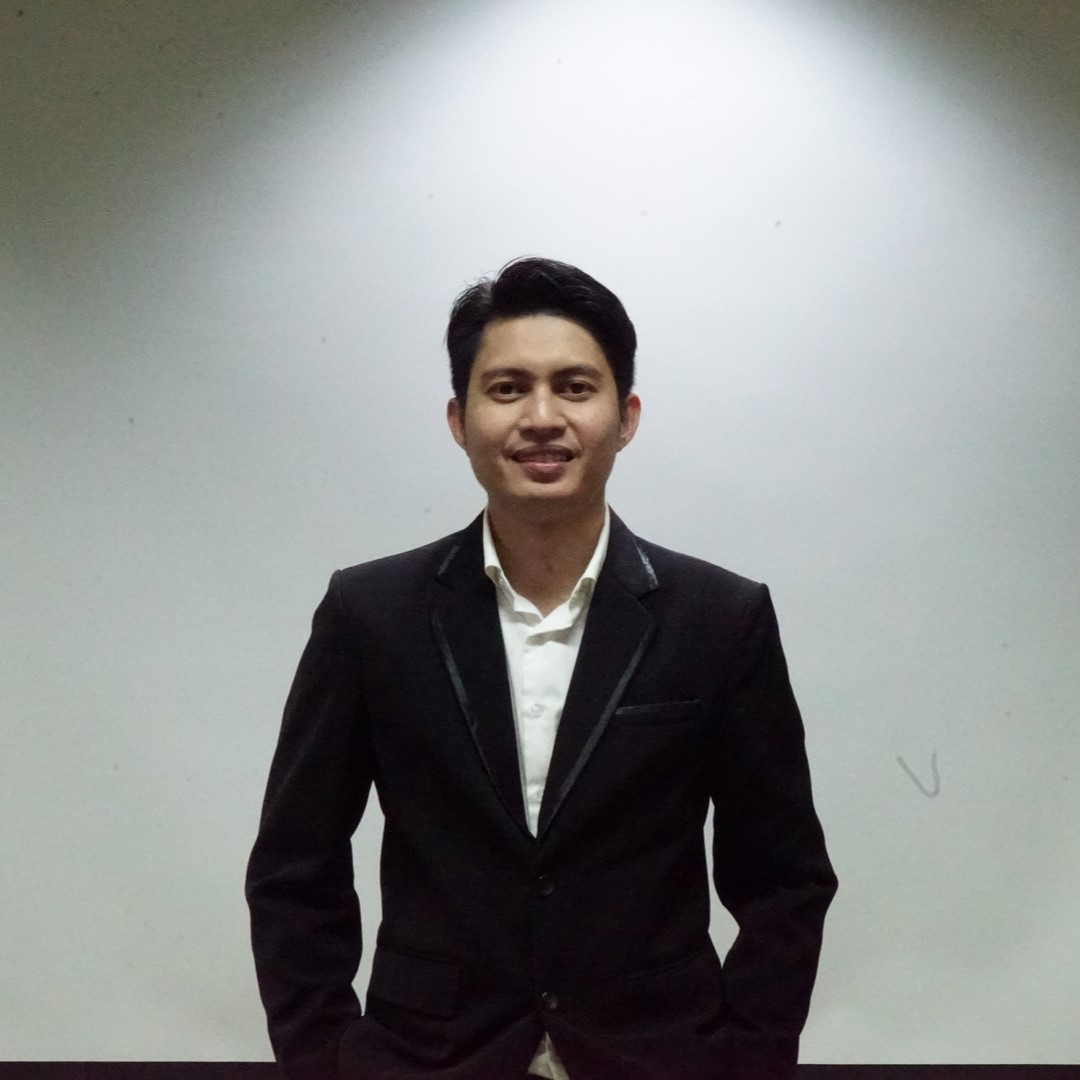
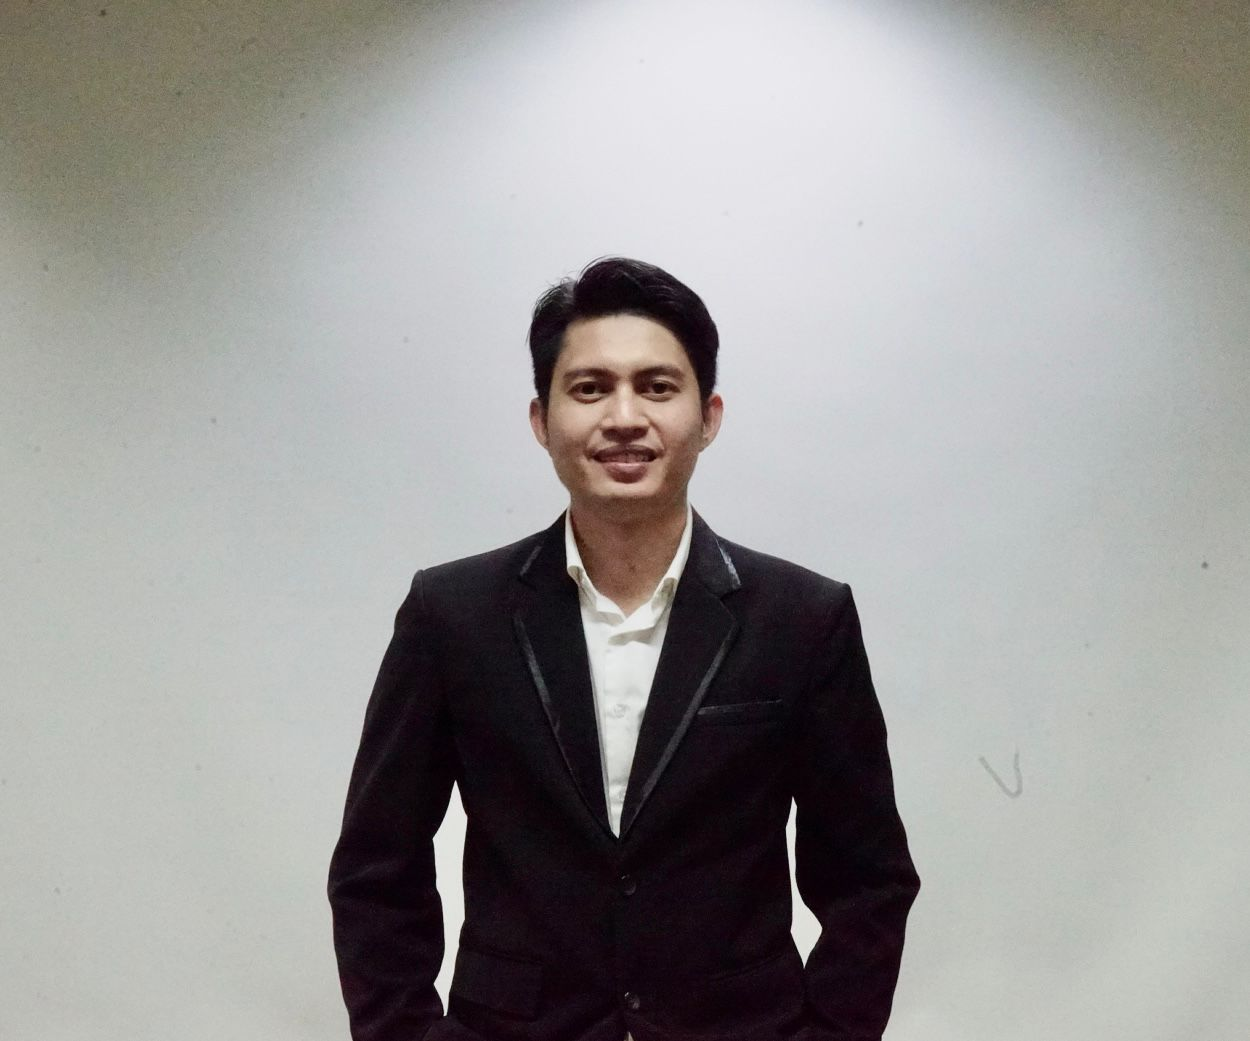
Update foto profile error

diff --git a/src/app/resources/content-minimal.js b/src/app/resources/content-minimal.js
@@ -8,7 +8,7 @@ const person = {
         return `${this.firstName} ${this.lastName}`;
     },
     role:      'Software Engineer',
-    avatar:    '/images/avatar-aminju.png',
+    avatar:    '/images/avatar-aminju.jpg',
     location:  'Asia/Jakarta',        // Expecting the IANA time zone identifier, e.g., 'Europe/Vienna'
     languages: ['English', 'Bahasa']  // optional: Leave the array empty if you don't want to display languages
 }

diff --git a/src/app/resources/content-blog.js b/src/app/resources/content-blog.js
@@ -8,7 +8,7 @@ const person = {
         return `${this.firstName} ${this.lastName}`;
     },
     role:      'Design Engineer',
-    avatar:    '/images/avatar-aminju.png',
+    avatar:    '/images/avatar-aminju.jpg',
     location:  'Asia/Jakarta',        // Expecting the IANA time zone identifier, e.g., 'Europe/Vienna'
     languages: ['English', 'Bahasa']  // optional: Leave the array empty if you don't want to display languages
 }
